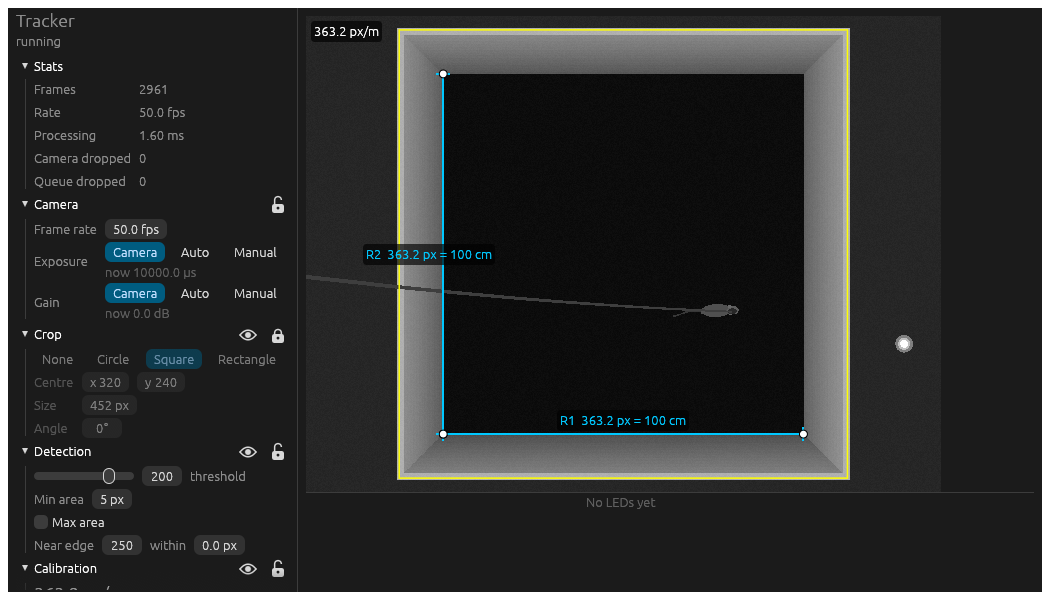
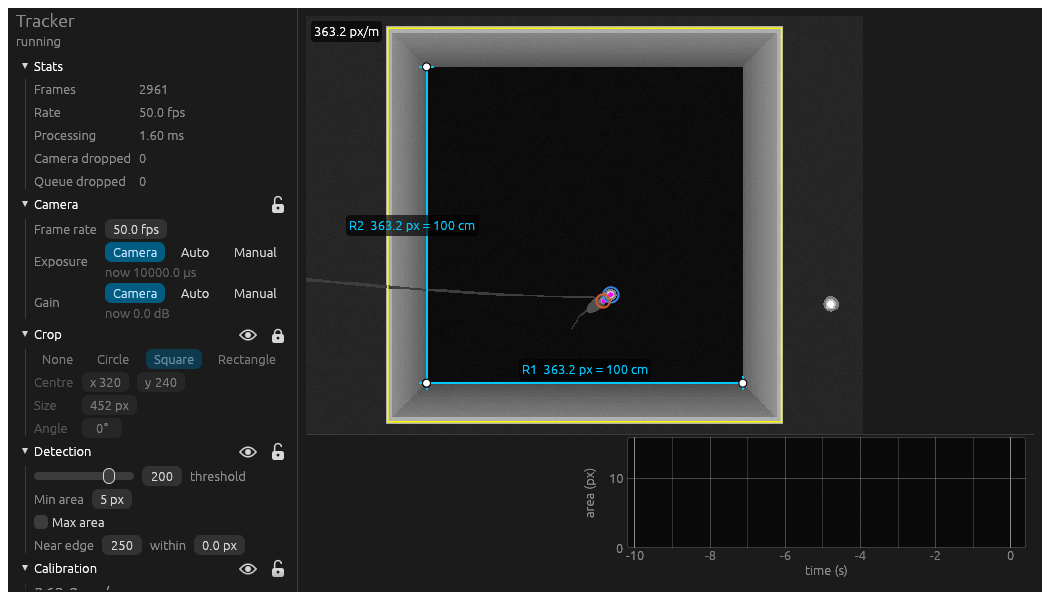
LED sizes as a proper chart; colour-blind-safe LED colours
- The strip's LED readout is now an egui_plot chart of both LEDs' areas over
  the last 10 s: labelled axes (time in s, area in px) with 2 s ticks,
  legend, gaps where an LED wasn't seen, hover values; zoom/drag off
- Drop the ratio and both-seen figures
- Big/small LEDs are blue/orange (chart and video circles) instead of
  green/red, which fails colour-vision-deficiency checks; the pair passes
  them against egui's dark and light panels
- egui_plot 0.38 is from the egui project and uses the same egui (0.37)

diff --git a/tracker/src/gui/strip.rs b/tracker/src/gui/strip.rs
@@ -1,114 +1,69 @@
-//! The strip below the video: LED size readout (bottom right) and the frame rate warning beside it.
+//! The strip below the video: a chart of the two LEDs' sizes (bottom right) and the frame rate warning
+//! beside it.
 
 use std::collections::VecDeque;
 
-use eframe::egui::{self, Color32, RichText, Sense, Stroke};
+use eframe::egui::{self, Color32};
+use egui_plot::{uniform_grid_spacer, Corner, Legend, Line, Plot, PlotBounds};
 
 use crate::tracker::LED_HISTORY;
 
 pub const AMBER: Color32 = Color32::from_rgb(230, 170, 60);
-const LED_COLOURS: [Color32; 2] = [Color32::GREEN, Color32::RED];
-/// Width of the LED readout at the right of the strip.
+/// Width of the LED chart at the right of the strip.
 pub const READOUT_WIDTH: f32 = 440.0;
-/// Below this big/small area ratio the two LEDs are getting hard to tell apart.
-const LOW_RATIO: f32 = 1.5;
 
-/// Summary of the two LEDs' areas over the recent history.
-#[derive(Debug, PartialEq)]
-pub struct LedSummary {
-    /// Latest areas (big, small); 0 if not seen.
-    pub current: [u32; 2],
-    /// Median area of each while seen; 0 if never seen.
-    pub median: [u32; 2],
-    /// Big/small area ratio over frames where both were seen: (median, lowest).
-    pub ratio: Option<(f32, f32)>,
-    /// Fraction of frames in which both were seen.
-    pub both_seen: f32,
-}
-
-pub fn led_summary(history: &VecDeque<(f64, [u32; 2])>) -> Option<LedSummary> {
-    let &(_, current) = history.back()?;
-    let median = |mut v: Vec<f32>| -> Option<f32> {
-        if v.is_empty() {
-            return None;
-        }
-        v.sort_by(f32::total_cmp);
-        Some(v[v.len() / 2])
-    };
-    let areas = |i: usize| history.iter().map(|&(_, a)| a[i]).filter(|&a| a > 0).map(|a| a as f32).collect();
-    let ratios: Vec<f32> =
-        history.iter().filter(|(_, a)| a[0] > 0 && a[1] > 0).map(|&(_, a)| a[0] as f32 / a[1] as f32).collect();
-    Some(LedSummary {
-        current,
-        median: [0, 1].map(|i| median(areas(i)).unwrap_or(0.0) as u32),
-        both_seen: ratios.len() as f32 / history.len() as f32,
-        ratio: ratios.iter().copied().reduce(f32::min).map(|lowest| (median(ratios).unwrap(), lowest)),
-    })
-}
-
-/// Coloured dot, painted (egui's fonts have no bullet glyph).
-fn dot(ui: &mut egui::Ui, colour: Color32) {
-    let (rect, _) = ui.allocate_exact_size(egui::vec2(10.0, 10.0), Sense::hover());
-    ui.painter().circle_filled(rect.center(), 4.0, colour);
-}
-
-pub fn led_readout(ui: &mut egui::Ui, history: &VecDeque<(f64, [u32; 2])>) {
-    let Some(summary) = led_summary(history) else {
-        ui.weak("No LEDs yet");
-        return;
-    };
-    ui.horizontal(|ui| {
-        sparkline(ui, history);
-        ui.vertical(|ui| {
-            ui.spacing_mut().item_spacing.y = 2.0;
-            for (i, name) in ["Big", "Small"].into_iter().enumerate() {
-                ui.horizontal(|ui| {
-                    dot(ui, LED_COLOURS[i]);
-                    ui.label(format!("{name} {} px", summary.current[i]));
-                    ui.weak(format!("median {}", summary.median[i]));
-                });
-            }
-            ui.horizontal(|ui| {
-                let ratio = match summary.ratio {
-                    Some((median, lowest)) => {
-                        let text = RichText::new(format!("Ratio {median:.1}×, lowest {lowest:.1}×"));
-                        if lowest < LOW_RATIO { text.color(AMBER) } else { text }
-                    }
-                    None => RichText::new("Ratio –"),
-                };
-                ui.label(ratio).on_hover_text(format!(
-                    "Big/small area ratio over the last {LED_HISTORY:.0} s. Near 1 the two LEDs are hard to tell \
-                     apart: zoom the lens in (or defocus slightly) so each covers more pixels."
-                ));
-                ui.weak(format!("both seen {:.0}%", 100.0 * summary.both_seen));
-            });
-        });
-    });
-}
-
-/// Both LEDs' areas over the last `LED_HISTORY` seconds; gaps where an LED wasn't seen.
-fn sparkline(ui: &mut egui::Ui, history: &VecDeque<(f64, [u32; 2])>) {
-    let (rect, _) = ui.allocate_exact_size(egui::vec2(180.0, 52.0), Sense::hover());
-    let painter = ui.painter_at(rect);
-    painter.rect_filled(rect, 2.0, ui.visuals().extreme_bg_color);
-    let Some(&(end, _)) = history.back() else { return };
-    let top = history.iter().map(|&(_, a)| a[0].max(a[1])).max().unwrap_or(1).max(1) as f32;
-    let to_screen = |t: f64, area: u32| {
-        let x = rect.left() + rect.width() * (1.0 - ((end - t) / LED_HISTORY) as f32);
-        let y = rect.bottom() - 2.0 - (rect.height() - 4.0) * area as f32 / top;
-        egui::pos2(x, y)
-    };
-    for i in 0..2 {
-        let mut line = Vec::new();
-        for &(t, areas) in history {
-            if areas[i] > 0 {
-                line.push(to_screen(t, areas[i]));
-            } else if !line.is_empty() {
-                painter.add(egui::Shape::line(std::mem::take(&mut line), Stroke::new(1.2, LED_COLOURS[i])));
-            }
-        }
-        painter.add(egui::Shape::line(line, Stroke::new(1.2, LED_COLOURS[i])));
+/// Big and small LED colours, for dark and light themes: the first two slots of a categorical palette
+/// validated for colour-vision deficiency against egui's panel colours (unlike green/red).
+pub fn led_colours(dark_mode: bool) -> [Color32; 2] {
+    if dark_mode {
+        [Color32::from_rgb(0x39, 0x87, 0xe5), Color32::from_rgb(0xd9, 0x59, 0x26)]
+    } else {
+        [Color32::from_rgb(0x2a, 0x78, 0xd6), Color32::from_rgb(0xeb, 0x68, 0x34)]
     }
+}
+
+/// Areas of the big and small LED over the last `LED_HISTORY` seconds, with time relative to the latest
+/// frame. Frames where an LED wasn't seen leave a gap in its line.
+pub fn led_chart(ui: &mut egui::Ui, history: &VecDeque<(f64, [u32; 2])>) {
+    let colours = led_colours(ui.visuals().dark_mode);
+    let end = history.back().map_or(0.0, |&(t, _)| t);
+    // Headroom above the data keeps the legend (top left) clear of the lines.
+    let top = history.iter().map(|&(_, a)| a[0].max(a[1])).max().unwrap_or(0).max(10) as f64 * 1.6;
+
+    Plot::new("led_sizes")
+        .width(READOUT_WIDTH)
+        .height(ui.available_height())
+        .legend(Legend::default().position(Corner::LeftTop))
+        .x_axis_label("time (s)")
+        .x_grid_spacer(uniform_grid_spacer(|_| [1.0, 2.0, 10.0]))
+        .y_axis_label("area (px)")
+        .allow_zoom(false)
+        .allow_drag(false)
+        .allow_scroll(false)
+        .allow_boxed_zoom(false)
+        .allow_double_click_reset(false)
+        .show(ui, |plot| {
+            plot.set_plot_bounds(PlotBounds::from_min_max([-LED_HISTORY - 0.2, 0.0], [0.4, top])); // room for the end ticks
+            for (i, name) in ["Big", "Small"].into_iter().enumerate() {
+                for run in seen_runs(history, i, end) {
+                    plot.line(Line::new(name, run).color(colours[i]).width(2.0));
+                }
+            }
+        });
+}
+
+/// Runs of consecutive frames in which LED `i` was seen, as (seconds before `end`, area) points.
+fn seen_runs(history: &VecDeque<(f64, [u32; 2])>, i: usize, end: f64) -> Vec<Vec<[f64; 2]>> {
+    let mut runs = vec![Vec::new()];
+    for &(t, areas) in history {
+        if areas[i] > 0 {
+            runs.last_mut().unwrap().push([t - end, areas[i] as f64]);
+        } else if !runs.last().unwrap().is_empty() {
+            runs.push(Vec::new());
+        }
+    }
+    runs.retain(|r| !r.is_empty());
+    runs
 }
 
 #[cfg(test)]
@@ -116,14 +71,13 @@ mod tests {
     use super::*;
 
     #[test]
-    fn summary_ignores_unseen_frames() {
+    fn runs_break_where_the_led_was_not_seen() {
         let history: VecDeque<_> =
-            [(0.0, [30, 10]), (0.1, [32, 0]), (0.2, [28, 14]), (0.3, [0, 0]), (0.4, [31, 12])].into_iter().collect();
-        let s = led_summary(&history).unwrap();
-        assert_eq!(s.current, [31, 12]);
-        assert_eq!(s.median, [31, 12]);
-        let (median, lowest) = s.ratio.unwrap();
-        assert!((median - 2.583).abs() < 0.01 && (lowest - 2.0).abs() < 1e-6);
-        assert_eq!(s.both_seen, 0.6);
+            [(1.0, [30, 10]), (1.1, [32, 0]), (1.2, [0, 14]), (1.3, [31, 12])].into_iter().collect();
+        let close = |a: f64, b: f64| (a - b).abs() < 1e-9;
+        let big = seen_runs(&history, 0, 1.3);
+        assert_eq!(big.len(), 2);
+        assert!(close(big[0][0][0], -0.3) && big[0].len() == 2 && big[1].len() == 1);
+        assert_eq!(seen_runs(&history, 1, 1.3).iter().map(Vec::len).collect::<Vec<_>>(), [1, 2]);
     }
 }

diff --git a/tracker/src/gui/mod.rs b/tracker/src/gui/mod.rs
@@ -91,7 +91,7 @@ fn held_rate_warning(current: Option<(f64, f64)>, now: f64, measured: f64, activ
 }
 
 /// Height of the strip below the video (LED readout, warnings); fixed so the video doesn't jump.
-const STRIP_HEIGHT: f32 = 92.0;
+const STRIP_HEIGHT: f32 = 150.0;
 
 /// A measured frame rate tidied for use as the setting: whole numbers when within 0.05% (the measurement,
 /// from camera timestamps over several seconds, is far more precise than that), otherwise 2 decimals, so
@@ -223,7 +223,7 @@ impl TrackerApp {
         }
     }
 
-    /// Below the video: the LED size readout at the right (while detection is visible) and, beside it, a
+    /// Below the video: the LED size chart at the right (while detection is visible) and, beside it, a
     /// warning when frames arrive at a different rate from the stream's declared one (which is what actually
     /// matters). The warning uses the rate over the last few seconds and, once shown, stays for at least
     /// `RATE_WARNING_HOLD` seconds so it doesn't flicker.
@@ -247,7 +247,7 @@ impl TrackerApp {
         if self.state.detection_overlay.visible {
             let history = self.shared.led_history.lock().unwrap();
             let ltr = egui::Layout::left_to_right(egui::Align::Min);
-            region(ui, split, rect.right(), ltr, &mut |ui| strip::led_readout(ui, &history));
+            region(ui, split, rect.right(), ltr, &mut |ui| strip::led_chart(ui, &history));
         }
         if let Some((_, measured)) = self.rate_warning {
             let rtl = egui::Layout::right_to_left(egui::Align::Center);

diff --git a/tracker/src/gui/view.rs b/tracker/src/gui/view.rs
@@ -13,7 +13,6 @@ use crate::tracker::View;
 
 use super::video_gpu;
 
-const BLOB_COLOURS: [Color32; 2] = [Color32::GREEN, Color32::RED];
 const CROP_COLOUR: Color32 = Color32::YELLOW;
 const RULER_COLOUR: Color32 = Color32::from_rgb(0, 200, 255);
 
@@ -123,7 +122,7 @@ impl VideoView {
             }
         }
         let blobs = if state.detection_overlay.visible { view.blobs.as_slice() } else { &[] };
-        for (blob, colour) in blobs.iter().zip(BLOB_COLOURS) {
+        for (blob, colour) in blobs.iter().zip(super::strip::led_colours(ui.visuals().dark_mode)) {
             let r = (blob.area as f32 / PI).sqrt() * scale + 4.0;
             // Centroids are in pixel indices; +0.5 puts them at pixel centres on screen.
             painter.circle_stroke(xf.to_screen([blob.x + 0.5, blob.y + 0.5]), r, Stroke::new(2.0, colour));

diff --git a/README.md b/README.md
@@ -36,8 +36,8 @@ While acquisition runs, a tracker window shows the live video with:
   count. The eye highlights above-threshold pixels and circles the two detected regions.
 - **Calibration**: rulers you drag onto things of known size and give a length in cm. The mean pixels per
   metre is shown in the panel and over the video, even while the rulers are hidden.
-- Below the video: the two LEDs' sizes over the last 10 s, including how distinct they are (big/small
-  area ratio), plus a warning if frames arrive at a different rate from the stream's.
+- Below the video: a chart of the two LEDs' areas over the last 10 s (to check they stay distinct, e.g.
+  while adjusting zoom and focus), plus a warning if frames arrive at a different rate from the stream's.
 - Stats: frame rate, processing time, dropped frames.
 
 The eye and padlock sit in each section's header. The padlock locks that section's controls and stops its
